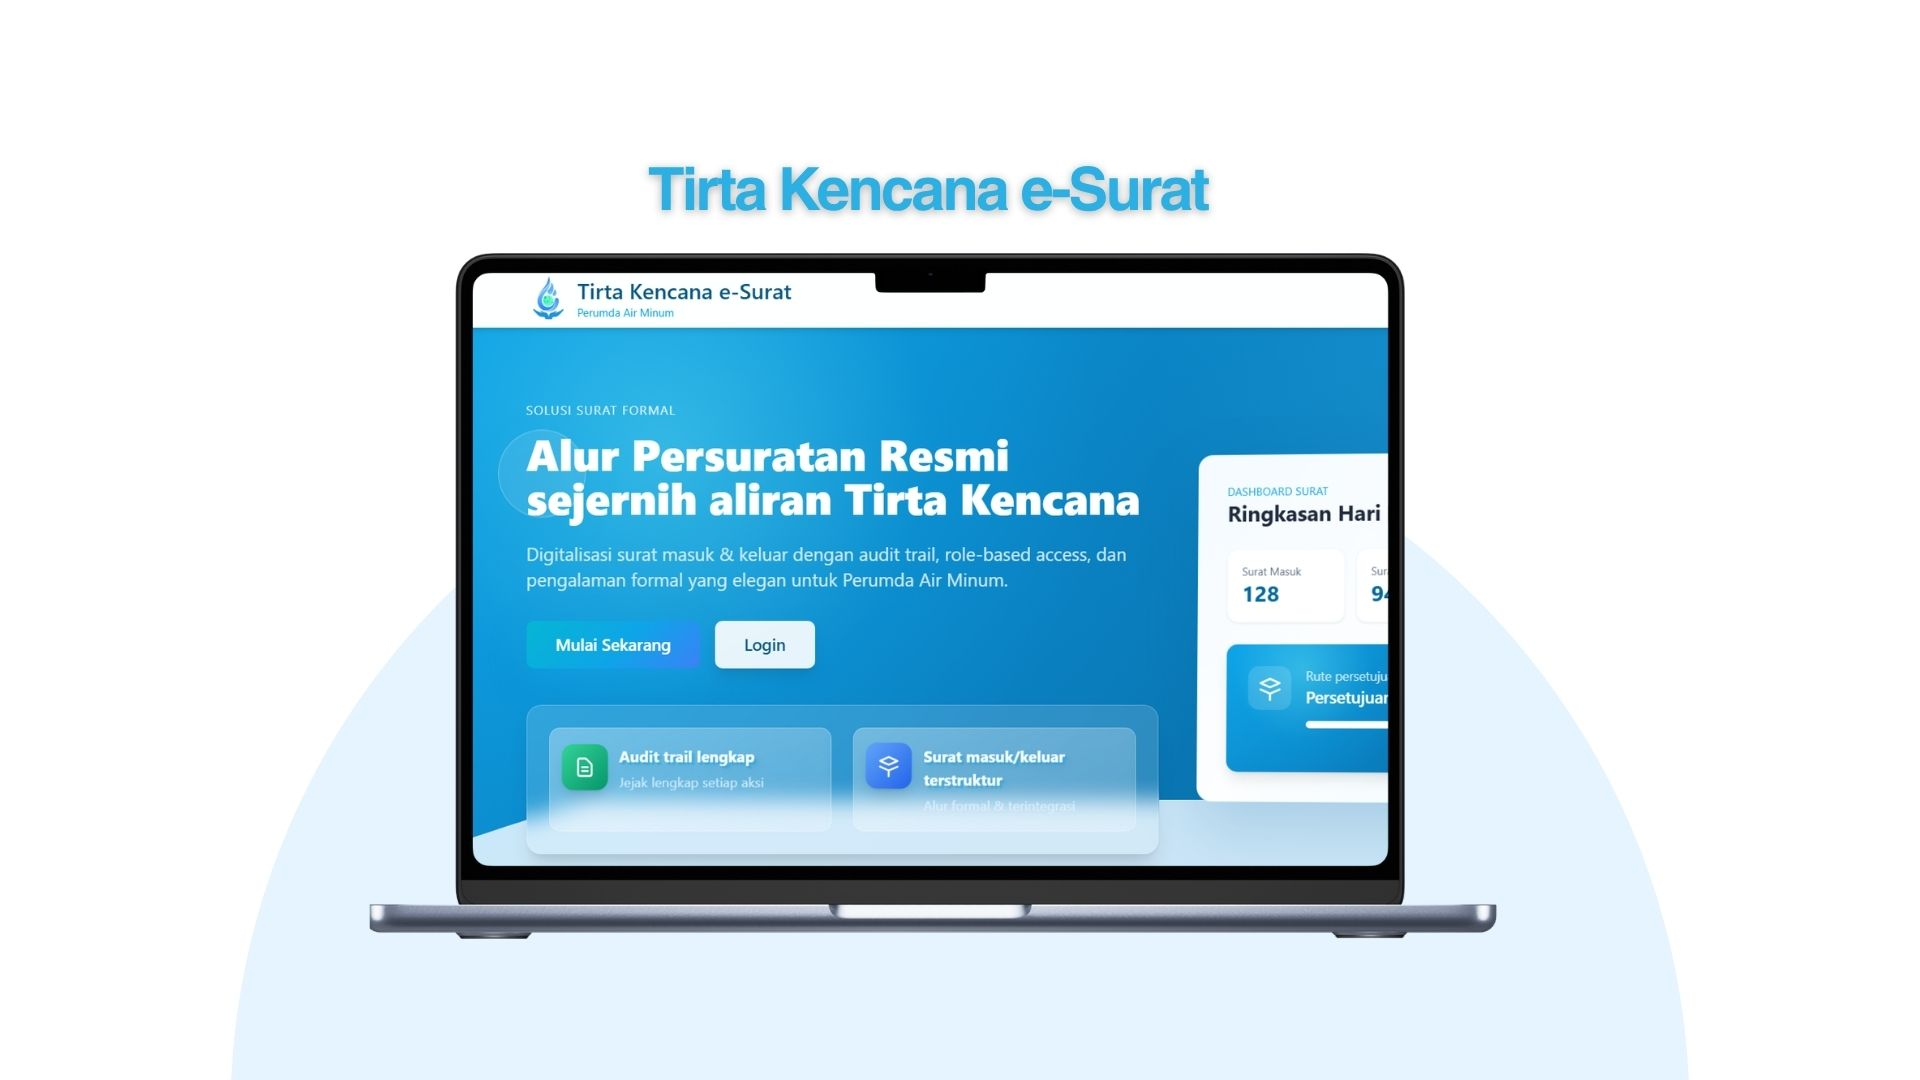
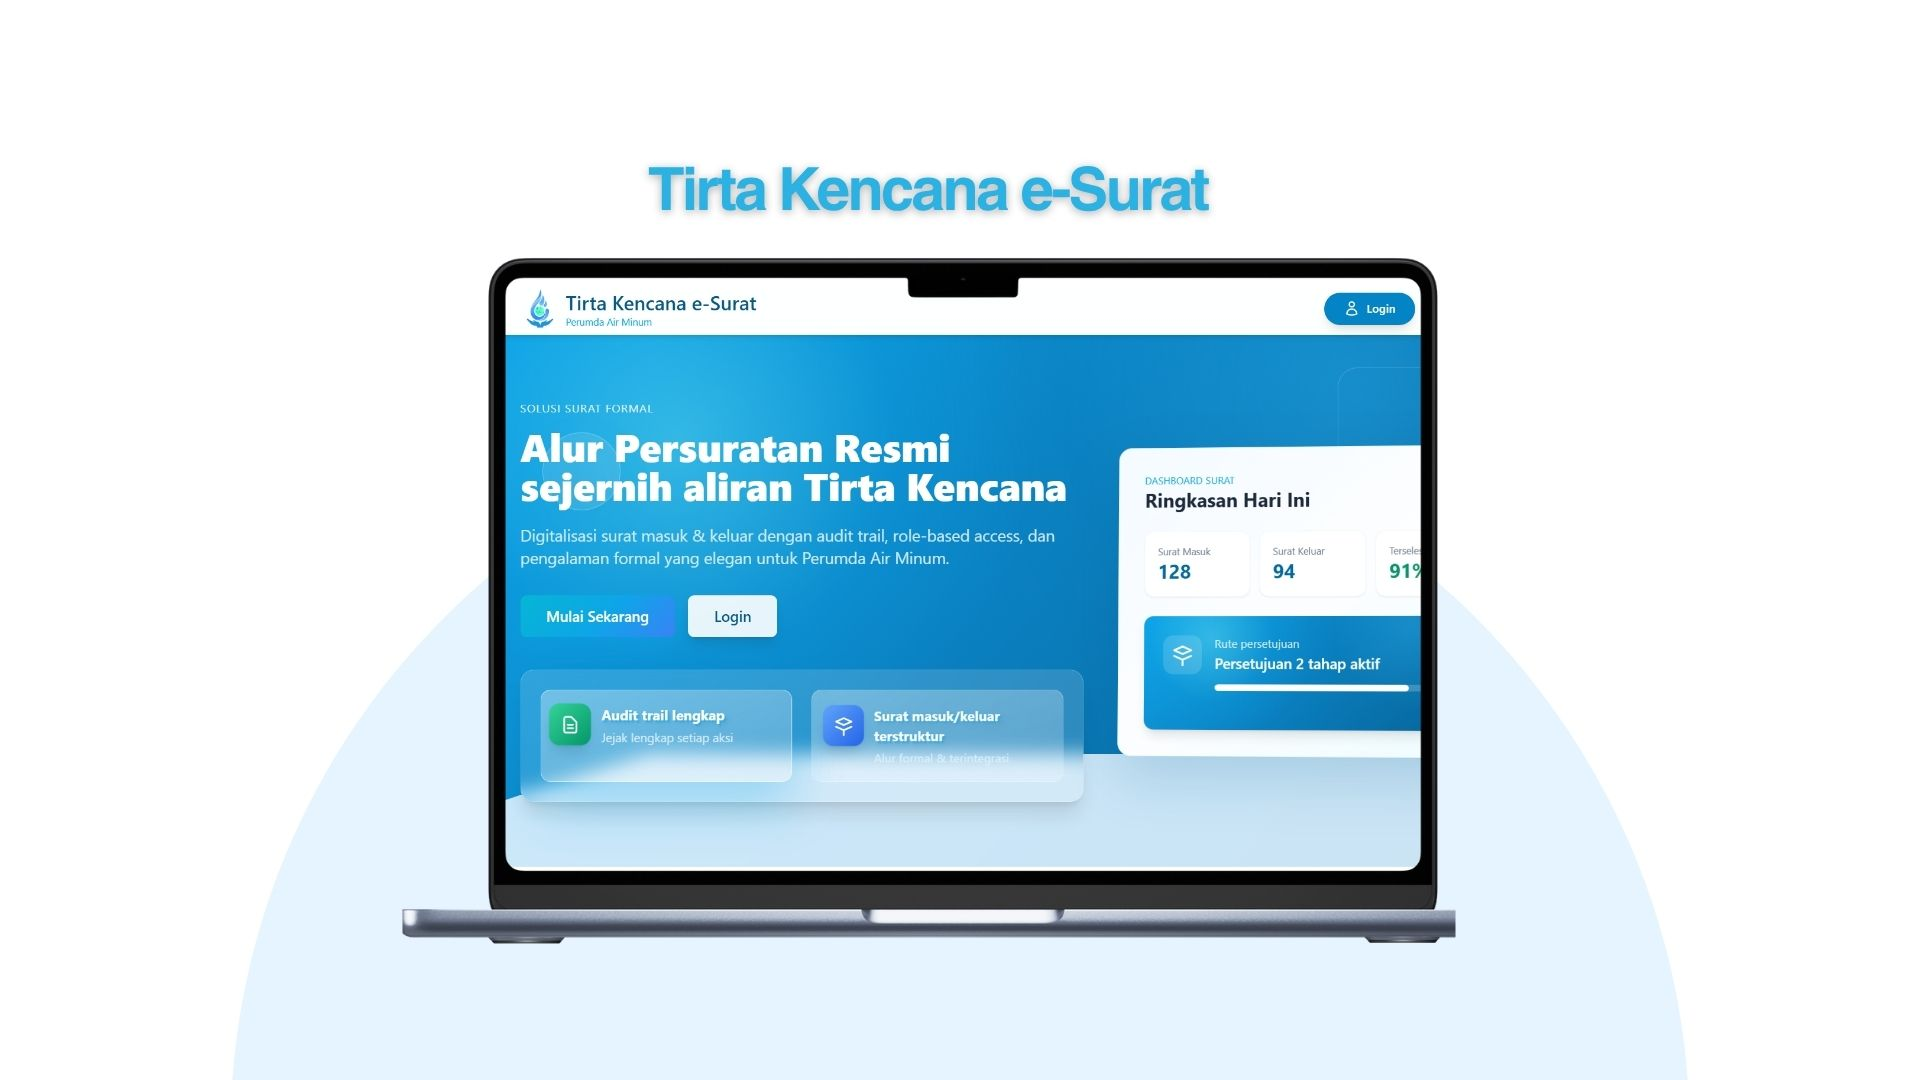
Enhance portfolio animations and projects

Changed region(s): [[0.1875, 0.2139, 0.7812, 0.8861], [0.7812, 0.5806, 0.8125, 0.6417]]

diff --git a/site/index.html b/site/index.html
@@ -31,8 +31,23 @@
 <link href="https://fonts.googleapis.com/css2?family=Anton&family=Caveat:wght@700&family=Plus+Jakarta+Sans:wght@400;500;600;700;800&display=swap" rel="stylesheet">
 <link rel="stylesheet" href="https://cdnjs.cloudflare.com/ajax/libs/font-awesome/6.5.2/css/all.min.css">
 <link rel="stylesheet" href="assets/style.css">
+<script>
+  if (!window.matchMedia('(prefers-reduced-motion: reduce)').matches) {
+    document.documentElement.classList.add('intro-enabled');
+  }
+</script>
 </head>
 <body>
+
+<div class="intro-screen" id="introScreen" role="status" aria-live="polite">
+  <div class="intro-content">
+    <p class="intro-eyebrow">Welcome to</p>
+    <p class="intro-name">Luthfi<span>.</span></p>
+    <p class="intro-caption">Portfolio <span>·</span> 2026</p>
+    <div class="intro-progress" aria-hidden="true"><i></i></div>
+  </div>
+  <button class="intro-skip" id="introSkip" type="button">Skip intro</button>
+</div>
 
 <nav class="nav">
   <div class="wrap">
@@ -65,7 +80,10 @@
     <div class="hero-copy">
 
       <p class="hi">Hello, I'm</p>
-      <h1>Luthfi Azmi<span class="name">Sa'diyah</span></h1>
+      <h1 class="typing-name" aria-label="Luthfi Azmi Sa'diyah">
+        <span class="typing-line" data-text="Luthfi Azmi" aria-hidden="true"></span>
+        <span class="name typing-line" data-text="Sa'diyah" aria-hidden="true"></span>
+      </h1>
 
       <div class="role-row">
         <span class="role-chip">Information Systems Graduate</span>
@@ -92,9 +110,9 @@
           <div class="stat-bar"><i></i></div>
         </div>
 
-        <div class="stat-card" style="--c:#3A6FD8" data-to="4" data-suffix="+" data-fill="100"
+        <div class="stat-card" style="--c:#3A6FD8" data-to="9" data-suffix="+" data-fill="100"
              data-jokes="All shipped, none on fire.|Works on my machine. And yours.|Tests passed. Mostly vibes.|Each one has a README. Almost.">
-          <div class="num">4+</div>
+          <div class="num">9+</div>
           <div class="label">Major Projects</div>
           <div class="stat-bar"><i></i></div>
         </div>
@@ -134,8 +152,8 @@
  
     <div class="am-left">
       <p class="section-tag">// about me</p>
-      <h2>hello, i'm <span class="am-mark">fia</span></h2>
-      <p class="am-lead">I’m a Information Systems graduate who likes turning ideas into things that actually work. My experience comes from internships and projects — basically, building, debugging, and learning one problem at a time.</p>
+      <h2>call me, <span class="am-mark">fia</span></h2>
+      <p class="am-lead">I’m an Information Systems graduate and my experience comes from internships and projects — basically, building, debugging, and learning one problem at a time.</p>
  
       <div class="am-icons">
         <span><svg viewBox="0 0 24 24"><path d="M8 8l-4 4 4 4M16 8l4 4-4 4M14 5l-4 14"/></svg>Web</span>
@@ -259,7 +277,7 @@
         <h3>Back-End Developer (Internship)</h3>
         <div class="xp-co">Dinas Komunikasi dan Informatika Provinsi Jawa Timur</div>
         <p class="xp-desc">Refactored SIMA, the internship management system, from Laravel 5 to Laravel 12 with improved validation, access control, UI, and database design.</p>
-        <div class="xp-tags"><span>Laravel</span><span>MySQL</span><span>Access Control</span><span>Database Design</span></div>
+        <div class="xp-tags"><span>Laravel</span><span>MySQL</span><span>Git</span><span>Database Design</span></div>
       </article>
  
       <article class="xp-item">
@@ -310,23 +328,36 @@
     <div class="section-head">
       <p class="section-tag">// projects &amp; case studies</p>
       <h2>things i've built</h2>
-      <p>A mix of web/desktop development, data analytics, and UI/UX case studies from internships, competitions, and coursework.</p>
+      <p>A mix of web development, UI/UX case studies, and data analytics from internships, competitions, and coursework.</p>
     </div>
 
     <div class="proj-grid">
+      <div class="proj-card">
+        <div class="proj-thumb">
+          <img src="assets/img/proj-perpamsi.png" alt="e-Jawara Perpamsi electronic correspondence web application">
+          <span class="proj-status"><i></i>On Going</span>
+        </div>
+        <div class="proj-body">
+          <h3>e-Jawara Perpamsi</h3>
+          <p class="proj-sub">Software Engineer Project</p>
+          <p>Electronic correspondence (e-Jawara) web application for PERPAMSI JATIM, developed as part of my work as a Software Engineer.</p>
+          <div class="proj-tags"><span>Laravel</span><span>MySQL</span><span>Git</span><span>Web App</span></div>
+          <a class="proj-link" href="https://ejawara.perpamsi-jatim.org/" target="_blank" rel="noopener" aria-label="View e-Jawara Perpamsi project">View Project <svg viewBox="0 0 24 24" aria-hidden="true"><path d="M7 17L17 7M8 7h9v9"/></svg></a>
+        </div>
+      </div>
       <div class="proj-card">
         <div class="proj-thumb">
           <img src="assets/img/proj-esurat.jpg" alt="e-Surat Tirta Kencana correspondence system">
           <span class="proj-status"><i></i>On Going</span>
         </div>
         <div class="proj-body">
-          <h3>e-Surat Tirta Kencana</h3>
+          <h3>Tirta Kencana e-Surat</h3>
           <p class="proj-sub">Software Engineer Project</p>
           <!-- sesuaikan deskripsi & tag dengan yang kamu kerjakan -->
-          <p>Electronic correspondence (e-Surat) system for Perumdam Tirta Kencana, currently under active development as part of my role as Software Engineer.</p>
-          <div class="proj-tags"><span>Laravel</span><span>MySQL</span><span>Web App</span></div>
+          <p>Electronic correspondence (e-Surat) system for Perumdam Tirta Kencana, developed as part of my work as a Software Engineer.</p>
+          <div class="proj-tags"><span>Laravel</span><span>MySQL</span><span>Git</span><span>Web App</span></div>
           <!-- isi href jika ada link publik; "#" = tombol disembunyikan -->
-          <a class="proj-link" href="#" target="_blank" rel="noopener" aria-label="View e-Surat Tirta Kencana project">View Project <svg viewBox="0 0 24 24" aria-hidden="true"><path d="M7 17L17 7M8 7h9v9"/></svg></a>
+          <a class="proj-link" href="https://edoc.perumdamjombang.co.id/" target="_blank" rel="noopener" aria-label="View e-Surat Tirta Kencana project">View Project <svg viewBox="0 0 24 24" aria-hidden="true"><path d="M7 17L17 7M8 7h9v9"/></svg></a>
         </div>
       </div>
       <div class="proj-card">
@@ -337,7 +368,7 @@
           <p>Refactored the internship management system at Dinas Kominfo Jawa Timur, upgrading Laravel 5 to Laravel 12 with improved validation, access control, UI, and database design.</p>
           <div class="proj-tags"><span>Laravel</span><span>MySQL</span><span>Web App</span></div>
           <!-- GitHub -->
-          <a class="proj-link" href="https://github.com/luthfisazmi/sima.laravel.git" target="_blank" rel="noopener" aria-label="View SIMA project">View Project <svg viewBox="0 0 24 24" aria-hidden="true"><path d="M7 17L17 7M8 7h9v9"/></svg></a>
+          <a class="proj-link" href="https://sima.kominfo.jatimprov.go.id/" target="_blank" rel="noopener" aria-label="View SIMA project">View Project <svg viewBox="0 0 24 24" aria-hidden="true"><path d="M7 17L17 7M8 7h9v9"/></svg></a>
         </div>
       </div>
 

diff --git a/site/assets/script.js b/site/assets/script.js
@@ -13,6 +13,84 @@ const $$ = (s, r = document) => [...r.querySelectorAll(s)];
 const clamp = (v, a, b) => Math.max(a, Math.min(b, v));
 const reduce = matchMedia('(prefers-reduced-motion: reduce)').matches;
 
+/* ---------- INTRO: short welcome screen ---------- */
+(function () {
+  const screen = $('#introScreen');
+  if (!screen) return;
+  if (reduce) { screen.remove(); return; }
+
+  const finish = () => {
+    clearTimeout(timer);
+    document.documentElement.classList.remove('intro-enabled');
+    document.documentElement.classList.add('intro-finished');
+    screen.setAttribute('aria-hidden', 'true');
+    document.dispatchEvent(new Event('portfolio:intro-finished'));
+    setTimeout(() => screen.remove(), 500);
+  };
+  const timer = setTimeout(finish, 1800);
+  $('#introSkip')?.addEventListener('click', finish, { once: true });
+})();
+
+/* ---------- HERO: type the name one character at a time ---------- */
+(function () {
+  const lines = $$('.typing-name .typing-line');
+  if (!lines.length) return;
+
+  const typeName = () => {
+    if (reduce) {
+      lines.forEach((line) => { line.textContent = line.dataset.text || ''; });
+      return;
+    }
+
+    let lineIndex = 0, charIndex = 0;
+    const typeNext = () => {
+      const line = lines[lineIndex];
+      const chars = Array.from(line.dataset.text || '');
+      line.classList.add('is-typing');
+      line.textContent = chars.slice(0, ++charIndex).join('');
+
+      if (charIndex >= chars.length) {
+        line.classList.remove('is-typing');
+        lineIndex++;
+        charIndex = 0;
+        if (lineIndex >= lines.length) return;
+      }
+      setTimeout(typeNext, 75);
+    };
+    typeNext();
+  };
+
+  if ($('#introScreen') && !reduce) {
+    document.addEventListener('portfolio:intro-finished', typeName, { once: true });
+  } else {
+    typeName();
+  }
+})();
+
+/* ---------- HERO: parallax fade while scrolling away ---------- */
+(function () {
+  const hero = $('#home');
+  if (!hero || reduce) return;
+
+  let queued = false;
+  const update = () => {
+    queued = false;
+    const rect = hero.getBoundingClientRect();
+    const progress = clamp(-rect.top / Math.max(rect.height * 0.7, 1), 0, 1);
+
+    hero.style.setProperty('--hero-copy-y', (-24 * progress).toFixed(1) + 'px');
+    hero.style.setProperty('--hero-copy-opacity', (1 - progress * 0.35).toFixed(2));
+    hero.style.setProperty('--hero-word-y', (32 * progress).toFixed(1) + 'px');
+    hero.style.setProperty('--hero-word-opacity', (1 - progress).toFixed(2));
+  };
+  const queueUpdate = () => {
+    if (!queued) { queued = true; requestAnimationFrame(update); }
+  };
+  addEventListener('scroll', queueUpdate, { passive: true });
+  addEventListener('resize', queueUpdate);
+  update();
+})();
+
 /* ---------- 2. NAV: menu mobile + link aktif ---------- */
 (function () {
   const toggle = $('#navToggle'), links = $('#navLinks');
@@ -77,11 +155,11 @@ const reduce = matchMedia('(prefers-reduced-motion: reduce)').matches;
   if (!badge || reduce) return;
   const hint = $('.drag-hint', badge);
 
-  const STIFFNESS = 38;   // makin besar = makin cepat balik
-  const DAMPING = 2.6;    // makin kecil = makin lama berayun
-  const MAX_ANGLE = 40;   // batas ayunan (derajat)
+  const STIFFNESS = 42;   // makin besar = makin cepat balik
+  const DAMPING = 1.6;    // makin kecil = makin lama berayun
+  const MAX_ANGLE = 55;   // batas ayunan (derajat)
 
-  let angle = 10, vel = 0, dragging = false, visible = true;
+  let angle = 18, vel = 24, dragging = false, visible = true;
   let pivotX = 0, pivotY = 0, last = performance.now();
 
   function setPivot() {
@@ -99,8 +177,8 @@ const reduce = matchMedia('(prefers-reduced-motion: reduce)').matches;
     if (hint) hint.classList.add('is-hidden');
   });
   badge.addEventListener('pointermove', (e) => {
-    if (dragging) { const next = pointToAngle(e); vel = (next - angle) * 30; angle = next; }
-    else if (e.pointerType === 'mouse') vel += e.movementX * 0.35;   // efek tertiup
+    if (dragging) { const next = pointToAngle(e); vel = (next - angle) * 42; angle = next; }
+    else if (e.pointerType === 'mouse') vel += e.movementX * 0.5;   // efek tertiup
   });
   const release = () => { dragging = false; badge.classList.remove('is-dragging'); };
   badge.addEventListener('pointerup', release);
@@ -235,11 +313,13 @@ const reduce = matchMedia('(prefers-reduced-motion: reduce)').matches;
   if (reduce) return;
   const OFFSET = 32, STEP = 0.1;
 
-  const fade = [   // ikut animasi muncul/hilang
-    '.section-head', '.marquee', '.am-left > *', '.proj-card', '.cert-card',
-    '.contact .wrap > div', '.contact-form', '.contact-info-item',
+  const fade = [
+    '.hero-copy > *',
+    '.section-head', '.marquee', '.am-left > *', '.tl-item',
+    '.xp-item', '.orgs-grid > *', '.proj-card', '.cert-card',
+    '.contact .wrap > div > :not(.contact-info-list)', '.contact-info-item',
+    '.contact-form', 'footer .wrap > *',
   ];
-  const stateOnly = ['.tl-item', '.xp-item'];   // hanya butuh class is-in (titik/cincin); teksnya diurus modul 10
 
   const io = new IntersectionObserver((entries) => {
     entries.forEach((en) => {
@@ -264,7 +344,6 @@ const reduce = matchMedia('(prefers-reduced-motion: reduce)').matches;
     io.observe(el);
   });
   fade.forEach((s) => watch(s, true));
-  stateOnly.forEach((s) => watch(s, false));
 })();
 
 /* ---------- 9. GARIS TIMELINE terisi mengikuti scroll (About + Experience) ---------- */

diff --git a/site/assets/style.css b/site/assets/style.css
@@ -45,6 +45,33 @@ button{font-family:inherit}
 h1,h2,h3{font-family:var(--display);font-weight:400;letter-spacing:.2px;margin:0;color:var(--green-deep)}
 section{position:relative;padding:96px 0}   /* tanpa garis antar-section */
 
+.intro-screen{
+  position:fixed;inset:0;z-index:1000;display:grid;place-items:center;overflow:hidden;
+  color:#fff;background:var(--green-deep);
+  background-image:radial-gradient(circle at center,rgba(76,107,46,.22),transparent 62%);
+  opacity:0;visibility:hidden;pointer-events:none;
+  transition:opacity .45s ease,visibility .45s ease;
+}
+.intro-screen::before,.intro-screen::after{
+  content:"";position:absolute;width:min(58vw,620px);aspect-ratio:1;border:1px solid rgba(255,255,255,.08);border-radius:50%;
+}
+.intro-screen::before{transform:scale(.72)}
+.intro-screen::after{transform:scale(1.08)}
+.intro-enabled .intro-screen{opacity:1;visibility:visible;pointer-events:auto}
+.intro-finished .intro-screen{opacity:0;pointer-events:none}
+.intro-content{position:relative;z-index:1;width:min(360px,80vw);text-align:center;animation:introEnter .65s cubic-bezier(.2,.8,.2,1) both}
+.intro-eyebrow{margin:0 0 4px;font-size:13px;font-weight:700;letter-spacing:.2em;text-transform:uppercase;color:rgba(255,255,255,.7)}
+.intro-name{margin:0;font:clamp(58px,12vw,88px)/1 var(--display);letter-spacing:.02em}
+.intro-name span{color:var(--red)}
+.intro-caption{margin:12px 0 30px;font-size:13px;font-weight:600;letter-spacing:.12em;text-transform:uppercase;color:rgba(255,255,255,.72)}
+.intro-caption span{padding:0 5px;color:var(--yellow)}
+.intro-progress{height:3px;overflow:hidden;background:rgba(255,255,255,.18);border-radius:999px}
+.intro-progress i{display:block;width:100%;height:100%;background:var(--yellow);transform:scaleX(0);transform-origin:left;animation:introProgress 1.8s ease forwards}
+.intro-skip{position:absolute;right:24px;bottom:24px;padding:9px 15px;color:#fff;font:600 13px var(--body);background:transparent;border:1px solid rgba(255,255,255,.45);border-radius:999px;cursor:pointer}
+.intro-skip:hover{color:var(--green-deep);background:#fff}
+@keyframes introEnter{from{opacity:0;translate:0 18px}to{opacity:1;translate:0 0}}
+@keyframes introProgress{to{transform:scaleX(1)}}
+
 .section-head{max-width:640px;margin:0 0 44px}
 .section-head h2,.contact h2{font-size:clamp(34px,5vw,52px);line-height:1.02;text-transform:lowercase}
 .section-head p{margin:12px 0 0;max-width:52ch;color:var(--ink-soft)}
@@ -101,22 +128,20 @@ section{position:relative;padding:96px 0}   /* tanpa garis antar-section */
 .hero-bigword{
   position:absolute;top:18px;left:0;z-index:0;pointer-events:none;white-space:nowrap;line-height:1;
   font-family:var(--display);font-size:clamp(90px,16vw,220px);color:rgba(76,107,46,.08);
+  translate:0 var(--hero-word-y,0px);opacity:var(--hero-word-opacity,1);
 }
 .hero .wrap{display:grid;grid-template-columns:1.1fr .9fr;gap:56px;align-items:start}
-.hero-copy{position:relative;z-index:1;align-self:center;min-width:0;padding-top:48px}
+.hero-copy{position:relative;z-index:1;align-self:center;min-width:0;padding-top:48px;translate:0 var(--hero-copy-y,0px);opacity:var(--hero-copy-opacity,1)}
 .hero-term{display:none}
 .hero-copy .hi{margin:0 0 4px;font-weight:700;font-size:20px;color:var(--ink-soft)}
 .hero-copy h1{font-size:clamp(46px,7vw,76px);line-height:.98;text-transform:lowercase}
 .hero-copy h1 .name{display:block;color:var(--red)}
-
-@keyframes heroFade{from{opacity:0;translate:0 14px}to{opacity:1;translate:0 0}}
-.hero-copy>*{animation:heroFade .7s ease both}
-.hero-copy>:nth-child(1){animation-delay:.05s}
-.hero-copy>:nth-child(2){animation-delay:.12s}
-.hero-copy>:nth-child(3){animation-delay:.20s}
-.hero-copy>:nth-child(5){animation-delay:.28s}
-.hero-copy>:nth-child(6){animation-delay:.36s}
-.hero-copy>:nth-child(7){animation-delay:.44s}
+.typing-line{display:block;min-height:1em}
+.typing-line.is-typing::after{
+  content:"";display:inline-block;height:.86em;margin-left:.08em;vertical-align:-.06em;
+  border-right:2px solid currentColor;animation:typingCaret .75s step-end infinite;
+}
+@keyframes typingCaret{50%{opacity:0}}
 
 /* role chips: melayang pelan, JS menyorot bergantian */
 .role-row{display:flex;flex-wrap:wrap;gap:10px;margin:18px 0 16px}

diff --git a/site/README.md b/site/README.md
@@ -3,8 +3,8 @@
 A static one-page portfolio site built from your PPTX portfolio deck — same content,
 same brand tone (olive green + signal red on cream paper, bold display type, the
 ID-badge/lanyard motif from your cover slide), laid out like a modern portfolio
-site (sticky nav, hero, about, filterable skills, experience, projects grid,
-certifications, contact form).
+site (animated welcome intro, sticky nav, hero, about, filterable skills,
+experience, projects grid, certifications, contact form).
 
 No build step, no framework — plain HTML/CSS/JS. Works anywhere static files work.
 
